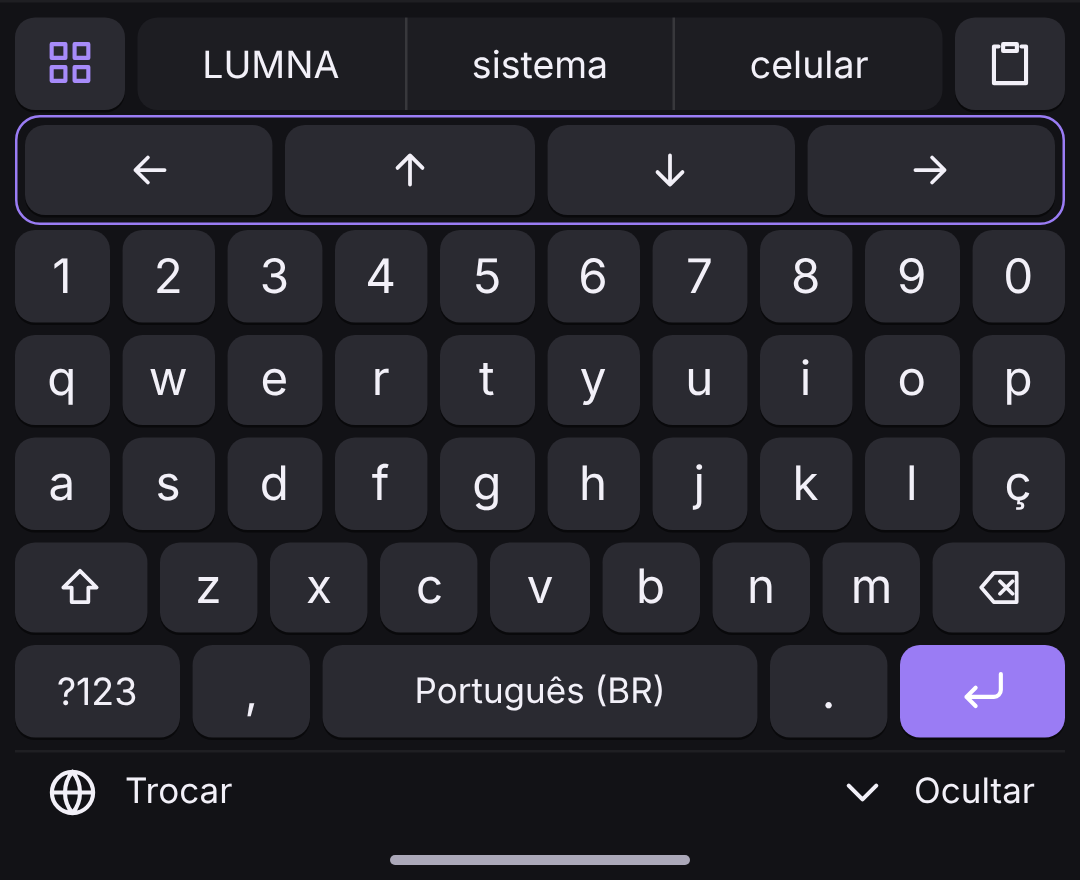
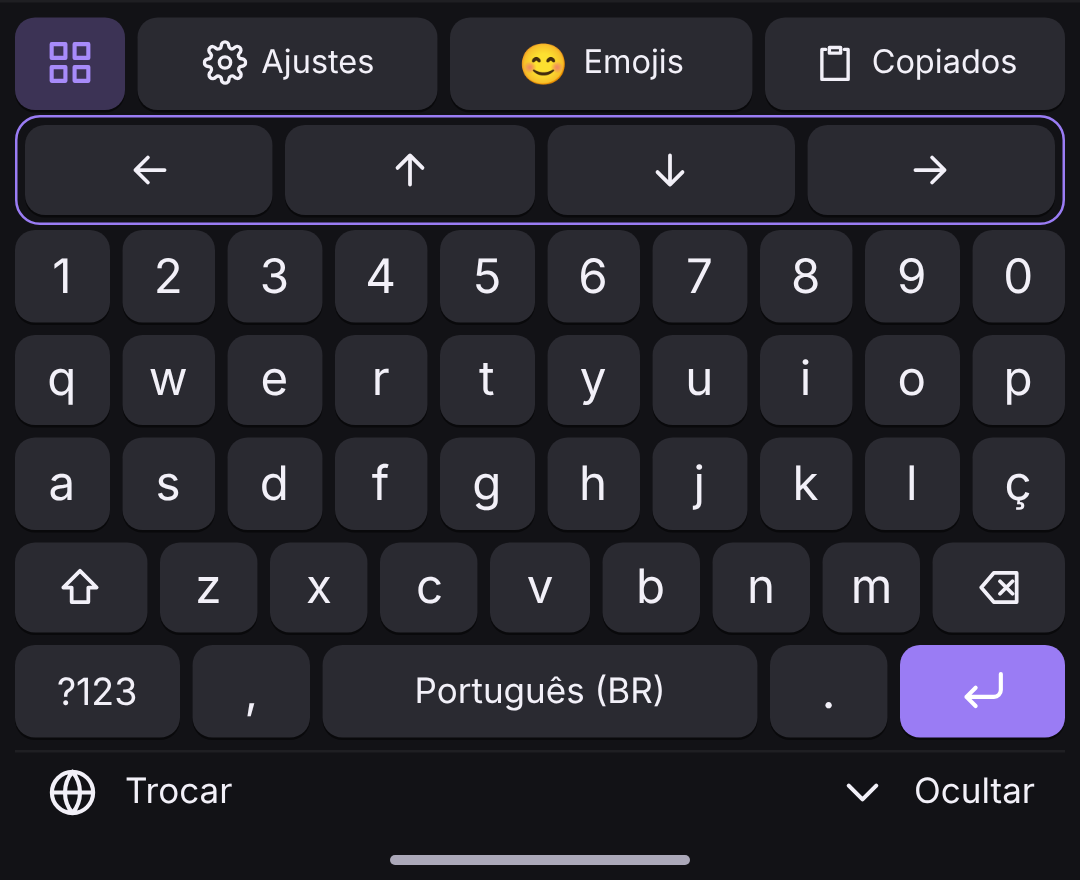
LUMNA Keyboard: barra de cima em três camadas e emojis
Ideia do Eric: a barra de cima vira o centro de comando, e o rodapé fica
só com Trocar e Ocultar (um botão no meio brigava com a barrinha que
abre o teclado).

- ferramentas: Ajustes, Emojis e Copiados; é a padrão ao abrir
- sugestões: aparece sozinha quando se começa a digitar
- atalhos (Esc, Tab, Ctrl, Alt, Home, End): aparece sozinha quando o
  teclado abre num terminal ou editor (classe da janela em foco)
- a grade alterna entre as ferramentas e a camada do momento

keyboard_show avisa se o teclado abriu num campo do LUMNA. Emojis por
categoria, com recentes guardados no aparelho; noto-fonts-emoji entra
no lumna-mobile.sh.

Testado no Chromium: campo do LUMNA abre nas ferramentas, digitar troca
para as sugestões, foot em foco abre nos atalhos, a grade volta.

Claude-Session: https://claude.ai/code/session_01GQoJqpwJvj2iKtzv8x8aHG

diff --git a/shell/src/components/mobile/MobileKeyboard.vue b/shell/src/components/mobile/MobileKeyboard.vue
@@ -1,15 +1,32 @@
 <script setup lang="ts">
-// LUMNA Keyboard: o teclado na tela do celular, como no esboço. Três telas: letras (ABNT, com ç),
-// símbolos e acentos (?123) e a área de transferência. O botão de grade liga a fileira do terminal
-// (Esc, Tab, Ctrl, Alt, Home, End). As teclas vão para o app em foco pelo backend (touchkeys.rs).
+// LUMNA Keyboard: o teclado na tela do celular, como no esboço. Teclas: letras (ABNT, com ç),
+// símbolos e acentos (?123, =\<). A barra de cima tem três camadas:
+//   ferramentas  a padrão ao abrir: Ajustes, Emojis, Área de transferência (e o que vier)
+//   sugestões    aparece sozinha quando você começa a digitar
+//   atalhos      Esc, Tab, Ctrl, Alt, Home, End; aparece sozinha no terminal e nos editores
+// O botão de grade alterna entre as ferramentas e a camada do momento.
+// As teclas vão para o app em foco pelo backend (touchkeys.rs).
 import { computed, onMounted, onUnmounted, ref } from "vue";
 import type { UnlistenFn } from "@tauri-apps/api/event";
 import Icon from "../Icon.vue";
 import { clipboardRead, keyboardKey, keyboardShow, keyboardType, on } from "../../system";
+import { activeWindow } from "../../compositor";
 
-type Page = "letras" | "simbolos" | "simbolos2" | "clipboard" | "ajustes";
+type Page = "letras" | "simbolos" | "simbolos2" | "clipboard" | "ajustes" | "emojis";
 const page = ref<Page>("letras");
+
+type Bar = "ferramentas" | "sugestoes" | "atalhos";
+const bar = ref<Bar>("ferramentas");
+// o app em foco é um terminal ou editor: a camada de atalhos é a dele, e , . viram / -
 const terminal = ref(false);
+const contextBar = (): Bar => (terminal.value ? "atalhos" : settings.value.suggestions ? "sugestoes" : "ferramentas");
+function toggleBar() {
+  bar.value = bar.value === "ferramentas" ? contextBar() : "ferramentas";
+}
+
+// classes de janela (minúsculas) que pedem os atalhos: terminais e editores
+const TERMINALS = ["foot", "kitty", "alacritty", "wezterm", "xterm", "konsole", "terminal", "terminator",
+  "code", "codium", "kate", "gedit", "mousepad", "neovide", "nvim", "zed", "emacs", "helix"];
 const shift = ref<"off" | "once" | "lock">("off");
 const ctrl = ref(false);
 const alt = ref(false);
@@ -56,6 +73,8 @@ async function type(ch: string) {
   }
   const out = label(ch);
   if (shift.value === "once") shift.value = "off";
+  // começou a digitar: as ferramentas dão lugar às sugestões (ou aos atalhos, no terminal)
+  if (bar.value === "ferramentas") bar.value = contextBar();
   word.value = /[\p{L}\p{N}]/u.test(out) ? word.value + out : "";
   await keyboardType(out);
 }
@@ -215,15 +234,52 @@ async function paste(c: Clip) {
   await keyboardType(c.text);
 }
 
+// ---- emojis ----
+
+const EMOJIS: Record<string, string> = {
+  Rostos: "😀😃😄😁😆😅😂🤣🙂🙃😉😊😇🥰😍🤩😘😋😛😜🤪😎🤓🧐🤔🤨😐😑😶🙄😏😴😌😔😕😟😢😭😤😠😡🤯😳🥺😱😨😰🤗🤭🤫🥱😬🤐😷🤒🤕🤢🤮🥵🥶😵🥳",
+  Gestos: "👍👎👌✌🤞🤟🤘🤙👈👉👆👇☝✋🤚🖐🖖👋🤝🙏👏🙌👐🤲💪🫶✍",
+  Corações: "❤🧡💛💚💙💜🖤🤍🤎💔❣💕💞💓💗💖💘💝💟",
+  Natureza: "🌙⭐🌟✨⚡🔥🌈☀🌤⛅🌧❄🌊🌸🌹🌻🌼🌷🌱🌿🍀🍁🐶🐱🐭🐰🦊🐻🐼🐨🐯🦁🐮🐷🐸🐵🐔🐧🐦🦋🐢🐍🐙",
+  Coisas: "🎉🎊🎁🎂🎈🎮🕹🎧🎵🎶📱💻⌨🖥📷🎥💡🔋🔌📌📎✏📝📚💼🗂📁⏰⌛🔒🔑🛠⚙🚀✈🚗🏠☕🍕🍔🍟🍫🍿🍺",
+  Símbolos: "✅❌⚠❗❓💯🔴🟠🟡🟢🔵🟣⚫⚪➕➖➗✖➡⬅⬆⬇🔁🔄💤💬👀🆗🆕",
+};
+const emojiTab = ref("Recentes");
+const RECENT = "lumna.keyboard.emojis";
+const recent = ref<string[]>([]);
+try {
+  recent.value = JSON.parse(localStorage.getItem(RECENT) ?? "[]");
+} catch {}
+const split = (str: string) => [...str].filter((c) => !/[\u200d\ufe0f]/.test(c));
+const emojiList = computed(() => (emojiTab.value === "Recentes" ? recent.value : split(EMOJIS[emojiTab.value] ?? "")));
+async function sendEmoji(e: string) {
+  recent.value = [e, ...recent.value.filter((x) => x !== e)].slice(0, 32);
+  try {
+    localStorage.setItem(RECENT, JSON.stringify(recent.value));
+  } catch {}
+  word.value = "";
+  await keyboardType(e);
+}
+function openEmojis() {
+  emojiTab.value = recent.value.length ? "Recentes" : "Rostos";
+  page.value = "emojis";
+}
+
 // ---- abrir e fechar ----
 
 let stop: UnlistenFn | null = null;
 onMounted(async () => {
-  stop = await on<boolean>("lumna://keyboard", (shown) => {
-    if (shown) {
-      word.value = "";
-      captureClipboard();
-    } else page.value = "letras";
+  stop = await on<{ shown: boolean; lumna: boolean }>("lumna://keyboard", async ({ shown, lumna }) => {
+    if (!shown) {
+      page.value = "letras";
+      return;
+    }
+    word.value = "";
+    captureClipboard();
+    const win = lumna ? null : await activeWindow().catch(() => null);
+    const cls = (win?.class ?? "").toLowerCase();
+    terminal.value = !!cls && TERMINALS.some((t) => cls.includes(t));
+    bar.value = terminal.value ? "atalhos" : "ferramentas";
   });
 });
 onUnmounted(() => stop?.());
@@ -254,6 +310,36 @@ onUnmounted(() => stop?.());
           <button class="more" @click.stop="removeClip(c)"><Icon name="dots" :size="16" /></button>
         </div>
         <div v-if="!shownClips.length" class="empty">Copie um texto e ele aparece aqui.</div>
+      </div>
+    </template>
+
+    <!-- emojis -->
+    <template v-else-if="page === 'emojis'">
+      <div class="row top">
+        <button class="key icon" @click="page = 'letras'"><Icon name="back" :size="22" /></button>
+        <div class="tabs">
+          <button
+            v-for="t in ['Recentes', ...Object.keys(EMOJIS)]"
+            :key="t"
+            :class="{ on: emojiTab === t }"
+            @click="emojiTab = t"
+          >{{ t }}</button>
+        </div>
+      </div>
+      <div class="emojis">
+        <button v-for="e in emojiList" :key="e" @click="sendEmoji(e)">{{ e }}</button>
+        <div v-if="!emojiList.length" class="empty">Os emojis que você usar aparecem aqui.</div>
+      </div>
+      <div class="row">
+        <button class="key mode" @click="page = 'letras'">ABC</button>
+        <button class="key space" @click="key('space')">espaço</button>
+        <button
+          class="key wide"
+          @pointerdown="holdStart($event, 'BackSpace')"
+          @pointerup="holdEnd"
+          @pointercancel="holdEnd"
+          @lostpointercapture="holdEnd"
+        ><Icon name="backspace" :size="20" /></button>
       </div>
     </template>
 
@@ -295,8 +381,13 @@ onUnmounted(() => stop?.());
     <!-- letras e símbolos -->
     <template v-else>
       <div class="row top">
-        <button class="key icon tools" :class="{ on: terminal }" @click="terminal = !terminal"><Icon name="grid" :size="22" /></button>
-        <template v-if="terminal">
+        <button class="key icon tools" :class="{ on: bar === 'ferramentas' }" @click="toggleBar"><Icon name="grid" :size="22" /></button>
+        <template v-if="bar === 'ferramentas'">
+          <button class="key tool" @click="page = 'ajustes'"><Icon name="settings" :size="18" /> Ajustes</button>
+          <button class="key tool" @click="openEmojis"><span class="emo">😊</span> Emojis</button>
+          <button class="key tool" @click="openClipboard"><Icon name="paste" :size="18" /> Copiados</button>
+        </template>
+        <template v-else-if="bar === 'atalhos'">
           <button class="key small" @click="key('Escape')">Esc</button>
           <button class="key small" @click="key('Tab')">Tab</button>
           <button class="key small" :class="{ on: ctrl }" @click="ctrl = !ctrl">Ctrl</button>
@@ -308,10 +399,9 @@ onUnmounted(() => stop?.());
           <div class="suggest">
             <button v-for="s in suggestions" :key="s" @click="pick(s)">{{ s }}</button>
           </div>
-          <button class="key icon" @click="openClipboard"><Icon name="paste" :size="22" /></button>
         </template>
       </div>
-      <div class="row arrows" :class="{ framed: !terminal }">
+      <div class="row arrows" :class="{ framed: bar !== 'atalhos' }">
         <button class="key" @click="key('Left')"><Icon name="arrow-left" :size="20" /></button>
         <button class="key" @click="key('Up')"><Icon name="arrow-up" :size="20" /></button>
         <button class="key" @click="key('Down')"><Icon name="arrow-down" :size="20" /></button>
@@ -355,7 +445,6 @@ onUnmounted(() => stop?.());
 
     <footer>
       <button @click="layout = layout === 'pt' ? 'en' : 'pt'"><Icon name="globe" :size="22" /> Trocar</button>
-      <button @click="page = page === 'ajustes' ? 'letras' : 'ajustes'"><Icon name="settings" :size="20" /> Ajustes</button>
       <button @click="keyboardShow(false)"><Icon name="chevron-down" :size="22" /> Ocultar</button>
     </footer>
     <div class="handle" />
@@ -519,6 +608,53 @@ onUnmounted(() => stop?.());
   font-size: 13px;
   text-align: center;
   padding-top: 20px;
+}
+.key.tool {
+  gap: 6px;
+  font-size: 13px;
+}
+.emo {
+  font-size: 16px;
+}
+.tabs {
+  flex: 1;
+  display: flex;
+  gap: 4px;
+  overflow-x: auto;
+  scrollbar-width: none;
+}
+.tabs button {
+  flex: none;
+  padding: 0 10px;
+  border: 0;
+  border-radius: 8px;
+  background: #1d1d22;
+  color: #a8a6b2;
+  font: inherit;
+  font-size: 13px;
+}
+.tabs button.on {
+  background: #3c3355;
+  color: var(--lumna-violet-soft);
+}
+.emojis {
+  flex: 1;
+  min-height: 0;
+  overflow-y: auto;
+  display: grid;
+  grid-template-columns: repeat(8, 1fr);
+  grid-auto-rows: 44px;
+  align-content: start;
+}
+.emojis button {
+  border: 0;
+  border-radius: 8px;
+  background: none;
+  font-size: 26px;
+  font-family: "Noto Color Emoji", sans-serif;
+}
+.emojis button:active {
+  background: #2a2a31;
 }
 .prefs {
   flex: 1;

diff --git a/shell/src-tauri/src/touchkeys.rs b/shell/src-tauri/src/touchkeys.rs
@@ -130,7 +130,9 @@ pub fn keyboard_show(app: AppHandle, show: bool) -> Result<(), String> {
         }
         layer::set_visible("keyboard", show);
         layer::set_visible("mobile-nav", !show);
-        let _ = handle.emit("lumna://keyboard", show);
+        // lumna = o teclado abriu num campo do LUMNA (senão é num app de fora: terminal, editor...)
+        let lumna = TARGET.lock().unwrap().is_some();
+        let _ = handle.emit("lumna://keyboard", json!({ "shown": show, "lumna": lumna }));
     })
     .map_err(|e| e.to_string())
 }

diff --git a/mobile/README.md b/mobile/README.md
@@ -18,13 +18,14 @@ O que for fechado a gente reaproveita do Android ou contorna com driver mínimo.
    barra de navegação (Início, Apps, Arquivos, Ajustes, Emma). Arquivos, Ajustes e Emma abrem os
    mesmos apps do PC. Compila no celular com `sh mobile/session/lumna-mobile.sh`.
 3. LUMNA Keyboard (`shell/src/components/mobile/MobileKeyboard.vue` + `touchkeys.rs`): letras ABNT
-   com ç, símbolos e acentos, fileira do terminal (Esc, Tab, Ctrl, Alt, Home, End), sugestões que
-   aprendem as palavras, área de transferência com fixados. Abre sozinho nos campos do LUMNA; nos
+   com ç, duas páginas de símbolos e acentos. A barra de cima tem três camadas: ferramentas (Ajustes,
+   Emojis, Copiados; a padrão), sugestões (aparece ao digitar, aprende as palavras) e atalhos (Esc,
+   Tab, Ctrl, Alt, Home, End; aparece no terminal e nos editores). A grade alterna entre elas. Abre sozinho nos campos do LUMNA; nos
    outros apps, toque na barrinha de baixo. As teclas chegam ao app pelo teclado virtual do Wayland (wtype).
 
-   | Letras | Terminal | Área de transferência |
-   |---|---|---|
-   | ![](docs/teclado-letras.png) | ![](docs/teclado-terminal.png) | ![](docs/teclado-clipboard.png) |
+   | Ferramentas | Terminal | Emojis | Copiados |
+   |---|---|---|---|
+   | ![](docs/teclado-letras.png) | ![](docs/teclado-terminal.png) | ![](docs/teclado-emojis.png) | ![](docs/teclado-clipboard.png) |
 4. Falta: gestos, Arquivos e Ajustes no formato do celular, tela de bloqueio.
 
 ![LUMNA no OnePlus 6T](docs/6t-primeiro-boot.jpg)
